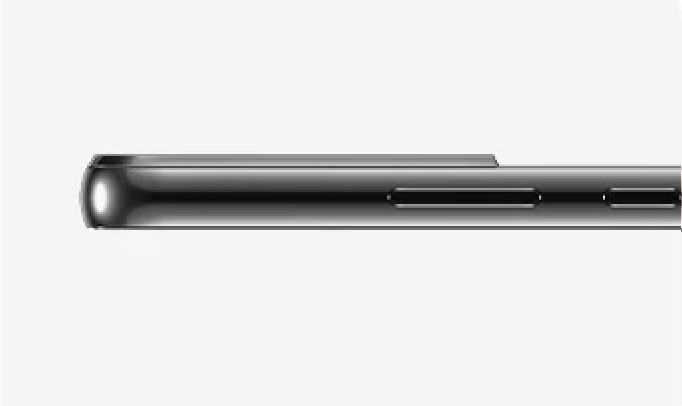
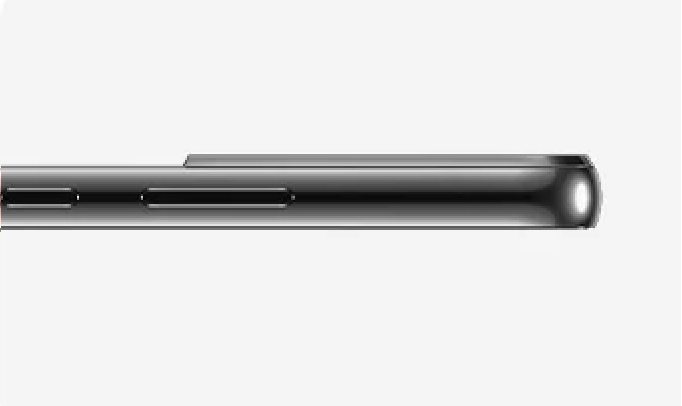
add mid bloc

Changed region(s): [[0.585, 0.3547, 1.0, 0.5911], [0.0, 0.3547, 0.4311, 0.5911]]

diff --git a/src/utils/getImages.js b/src/utils/getImages.js
@@ -1,0 +1,31 @@
+import green1 from "../assets/green/green1.png";
+import green2 from "../assets/green/green2.png";
+import green3 from "../assets/green/green3.png";
+
+import black1 from "../assets/black/black1.png";
+import black2 from "../assets/black/black2.png";
+import black3 from "../assets/black/black3.png";
+
+import white1 from "../assets/white/white1.png";
+import white2 from "../assets/white/white2.png";
+import white3 from "../assets/white/white3.png";
+
+import pink1 from "../assets/pink/pink1.png";
+import pink2 from "../assets/pink/pink2.png";
+import pink3 from "../assets/pink/pink3.png";
+
+export const getImages = (color) => {
+  switch (color) {
+    case "var(--green)":
+      return [green1, green2, green3];
+    case "var(--black)":
+      return [black1, black2, black3];
+    case "var(--white)":
+      return [white1, white2, white3];
+    case "var(--pink)":
+      return [pink1, pink2, pink3];
+
+    default:
+      return;
+  }
+};

diff --git a/src/components/MidBloc.jsx b/src/components/MidBloc.jsx
@@ -1,0 +1,31 @@
+import { ModelTitle } from "./ModelTitle";
+import { getImages } from "../utils/getImages";
+import { getColorName } from "../utils/getColorName";
+export const MidBloc = ({ color }) => {
+
+  return (
+    <div className="midBloc">
+      <ModelTitle color={color} />
+      <div className="images">
+        <img
+          className="imgFull"
+          src={getImages(color)[0]}
+          alt={"Samsung S22 " + getColorName(color)}
+          title={"Samsung S22 " + getColorName(color)}
+        />
+        <img
+          className="imgCamera"
+          src={getImages(color)[1]}
+          alt={"Samsung S22 " + getColorName(color)}
+          title={"Samsung S22 " + getColorName(color)}
+        />
+        <img
+          className="imgSide"
+          src={getImages(color)[2]}
+          alt={"Samsung S22 " + getColorName(color)}
+          title={"Samsung S22 " + getColorName(color)}
+        />
+      </div>
+    </div>
+  );
+};

diff --git a/src/components/Navbar.jsx b/src/components/Navbar.jsx
@@ -1,15 +1,17 @@
 import SamsungLogo from "../assets/samsung-logo.png";
 import { ReactComponent as Cart } from "../SVG/cart.svg";
 import { ReactComponent as Profile } from "../SVG/profile.svg";
-export const Navbar = () => {
+import { getContrast } from "../utils/getContrast";
+
+export const Navbar = ({color}) => {
   return (
     <nav>
       <img src={SamsungLogo} alt="Logo Samsung" title="Logo Samsung" />
       <div className="icons">
-        <Cart fill="white" />
+        <Cart fill={getContrast(color)} />
         <Profile
           fill="none"
-          stroke="black"
+          stroke="#333"
           strokeWidth="3.5"
           strokeLinecap="round"
           strokeLinejoin="round"

diff --git a/src/App.js b/src/App.js
@@ -2,13 +2,14 @@ import { ColorBubble } from "./components/ColorBubble";
 import { Navbar } from "./components/Navbar";
 import { RightBloc } from "./components/RightBloc";
 import { useState } from "react";
+import { MidBloc } from "./components/MidBloc";
 
 function App() {
   const [color, setColor] = useState("var(--green)");
 
   return (
     <>
-      <Navbar />
+      <Navbar color={color}/>
       <ColorBubble
         size={"20rem"}
         top={"-6rem"}
@@ -23,7 +24,7 @@ function App() {
       />
       <main>
         <div>Bloc 1</div>
-        <div>Bloc 2</div>
+        <MidBloc color={color} />
         <RightBloc color={color} setColor={setColor} />
       </main>
     </>

diff --git a/src/styles/MidBloc.css b/src/styles/MidBloc.css
@@ -1,0 +1,55 @@
+.midBloc {
+  display: flex;
+  flex-direction: column;
+  gap: 12rem;
+}
+
+/*
+** Model Title
+**/
+
+.modelTitle {
+  display: flex;
+  justify-content: center;
+  align-items: center;
+  gap: 1rem;
+  width: 100%;
+}
+.modelTitle h1 {
+  margin: 0;
+  font-size: 3rem;
+  color: #333;
+}
+.modelTitle p {
+  margin: 0 0 0 0.2rem;
+  color: #333;
+  font-size: 1.2rem;
+}
+
+/*
+** Images
+**/
+
+.midBloc .images img {
+  width: 12rem;
+}
+.images {
+  width: 25rem;
+  height: 20rem;
+  position: relative;
+}
+.imgFull,
+.imgSide,
+.imgCamera {
+  position: absolute;
+}
+.imgFull {
+  top: -12rem;
+  right: 0;
+}
+.imgSide {
+  top: -5rem;
+}
+.imgCamera {
+  top: 1rem;
+}

diff --git a/src/components/ModelTitle.jsx b/src/components/ModelTitle.jsx
@@ -1,0 +1,19 @@
+export const ModelTitle = ({ color }) => {
+  return (
+    <div className="modelTitle">
+      <div
+        style={{
+          width: "7px",
+          height: "4rem",
+          backgroundColor: color,
+          marginTop: ".4rem",
+          transition: "all .5s"
+        }}
+      />
+      <div>
+        <h1>Galaxy S22</h1>
+        <p>599.00 €</p>
+      </div>
+    </div>
+  );
+};

diff --git a/src/utils/getColorName.js b/src/utils/getColorName.js
@@ -1,0 +1,15 @@
+export const getColorName = (color) => {
+  switch (color) {
+    case "var(--green)":
+      return "vert";
+    case "var(--black)":
+      return "noir";
+    case "var(--white)":
+      return "blanc";
+    case "var(--pink)":
+      return "rose";
+
+    default:
+      return;
+  }
+};

diff --git a/src/index.js b/src/index.js
@@ -5,6 +5,7 @@ import reportWebVitals from './reportWebVitals';
 import './App.css';
 import './styles/Navbar.css';
 import './styles/RightBloc.css';
+import './styles/MidBloc.css';
 
 const root = ReactDOM.createRoot(document.getElementById('root'));
 root.render(

diff --git a/src/App.css b/src/App.css
@@ -25,6 +25,7 @@ body {
 
 main {
   display: flex;
+  flex-wrap: wrap;
   justify-content: space-between;
   align-items: center;
   padding: 5rem 2rem;
